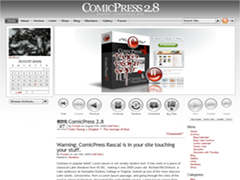
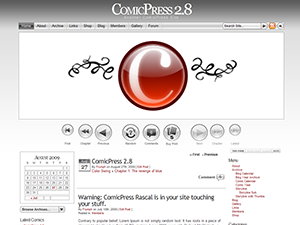
Release ver.

diff --git a/style.css b/style.css
@@ -22,7 +22,7 @@ body {
 	text-transform: none;
 	letter-spacing: normal;
 	color: #333;
-	background: #fff url('images/background.jpg') top repeat-x; 
+	background: #fff url('images/bgs/background.png') top repeat-x; 
 	z-index: 0;
 }
 
@@ -292,9 +292,9 @@ h3, h3 a {
 		padding: 5px 0 5px 0;
 	}
 
-
 	#menu li {
 		float: left;
+		cursor:pointer;
 	}
 
 	#menu li a {
@@ -599,12 +599,6 @@ a.navi-comments:hover span {
 	font-size: 11px;
 }
 
-.comment-link {
-	font-family: 'Georgia' , serif;
-	font-size: 13px;
-	text-align: right;
-}
-
 .related_posts {
 	margin-top: 10px;
 	font-weight: 700;
@@ -621,6 +615,49 @@ a.navi-comments:hover span {
 	background: #eee;
 	padding: 3px;
 }
+
+/* COMMENT LINK */
+
+.comment-link {
+	height: 25px;
+	line-height: 20px;
+	font-family: 'Arial', sans-serif;
+	font-weight: bold;
+	text-align: right;
+}
+
+	.comment-link a {
+		color: #333;
+	}
+		
+	.comment-link a:hover {
+		color: #800;
+	}
+		
+	.comment-balloon {
+		width: 30px;
+		height: 25px;
+		display: block;
+		margin: 0 0 0 5px;
+		float: right;
+		overflow: hidden;
+		text-align: center;
+		line-height: 16px;
+		font-family: 'Georgia', serif;
+		font-size: 16px;
+		font-weight: normal;
+		background: url('images/comment-balloon.png') no-repeat;
+	}
+	
+		.comment-link a:hover .comment-balloon {
+			color: #fff;
+			background-position: 0 -25px;
+		}
+		
+	.comment-balloon-empty {
+		font-size: 20px;
+		line-height: 30px;
+		}
 
 /* THE BLOG HEADER */
 
@@ -964,6 +1001,29 @@ table#wp-calendar {
 table#wp-calendar td {
 	border-color: #999;
 }
+
+.wp-calendar-download {
+	width: 166px;
+	margin: 0 auto;
+	overflow: hidden;
+	font-size: 10px;
+	text-align: right;
+	color: #777;
+	background: #222;
+}
+
+	.wp-calendar-download a {
+		padding: 0 3px;
+		font-weight: bold;
+		color: #fff;
+		background: #000;
+		border-left: 1px solid #777;
+	}
+
+		.wp-calendar-download a:hover {
+			background: #800;
+		}
+
 
 /* SEARCH */
 

diff --git a/comicpress-options.php b/comicpress-options.php
@@ -742,13 +742,17 @@ function comicpress_admin() {
 	<div style="margin-top: 10px; text-align:center;padding: 5px; background: #eee; -moz-border-radius: 10px;-khtml-border-radius: 10px;-webkit-border-radius: 10px;border-radius: 10px;border: solid 1px #000;">
 	<a href="http://comicpress.org/">ComicPress 2.8 (<?php global $comicpress_version; echo $comicpress_version; ?>)</a>, created by <a href="http://mindfaucet.com/">Tyler Martin</a>, with <a href="http://www.coswellproductions.com/">John Bintz</a> and <a href="http://webcomicplanet.com/">Philip M. Hofer</a> (<a href="http://frumph.net/">Frumph</a>)<br />
 	If you like the ComicPress theme, please donate.  It will help in creating new versions.<br />
-					
-					<form action="https://www.paypal.com/cgi-bin/webscr" method="post" id="paypal-wrap">
-			<input type="hidden" name="cmd" value="_s-xclick">
-			<input type="hidden" name="hosted_button_id" value="3142149">
-			<input type="submit" border="0" name="submit" alt="" value="Donate" id="paypal">
-			<img alt="" border="0" src="https://www.paypal.com/en_US/i/scr/pixel.gif" width="1" height="1">
-		</form>
+<form action="https://www.paypal.com/cgi-bin/webscr" method="post">
+<input type="hidden" name="cmd" value="_s-xclick">
+<input type="hidden" name="hosted_button_id" value="7827910">
+<input type="image"
+src="https://www.paypal.com/en_US/i/btn/btn_donateCC_LG.gif"
+border="0" name="submit" alt="PayPal - The safer, easier way to pay
+online!">
+<img alt="" border="0"
+src="https://www.paypal.com/en_US/i/scr/pixel.gif" width="1"
+height="1">
+</form>
 	</div>
 </div>
 

diff --git a/widgets/calendar.php b/widgets/calendar.php
@@ -21,12 +21,12 @@ function comicpress_calendar($instance = null) {
 	<div id="wp-calendar-top"></div>
 	<div id="wp-calendar-wrap">
 	<?php if (!empty($thumbnail)) { ?>
-		<img src="<?php echo $thumbnail; ?>" alt="" class="wp-calendar-thumb" /><br />
+		<div class="wp-calendar-download">
+		<img src="<?php echo $thumbnail; ?>" alt="" /><br />
 		<?php if (!empty($small) || !empty($medium) || !empty($large)) { ?>
-			<div class="wp-calendar-download">
-			<?php if (!empty($small)) { ?>[<a href="<?php echo $small; ?>" title="Download">S</a>] <?php } ?><?php if (!empty($medium)) { ?>[<a href="<?php echo $medium; ?>" title="Download">M</a>] <?php } ?><?php if (!empty($large)) { ?>[<a href="<?php echo $large; ?>" title="Download">L</a>] <?php } ?>
-			</div>
+			DOWNLOAD <?php if (!empty($small)) { ?><a href="<?php echo $small; ?>" title="Download Small">S</a><?php } ?><?php if (!empty($medium)) { ?><a href="<?php echo $medium; ?>" title="Download Medium">M</a><?php } ?><?php if (!empty($large)) { ?><a href="<?php echo $large; ?>" title="Download Large">L</a><?php } ?>
 		<?php } ?>
+		</div>
 	<?php } ?>
 	<?php get_calendar(); ?>
 	</div>

diff --git a/widgets/menubar.php b/widgets/menubar.php
@@ -56,7 +56,7 @@ function comicpress_menubar() {
 	$bookmarkargs = 
 	$bookmarks = wp_list_bookmarks('echo=0&title_li=&categorize=1&title_before=&title_after=&exclude_name=menubar'); 
 	$bookmarks = preg_replace('#<li ([^>]*)>#', '<li class="page-item link">', $bookmarks);
-	$bookmarks = preg_replace('#<ul ([^>]*)>#', '<ul>', $bookmarks);
+	$bookmarks = preg_replace('#<ul ([^>]*)>#', '<ul>', $bookmarks); 
 	$listpages = wp_list_pages('echo=0&sort_column=menu_order&depth=4&title_li=');
 		if (!empty($bookmarks)) {
 			$listpages = str_replace('Links</a></li>', 'Links</a>
@@ -66,12 +66,12 @@ function comicpress_menubar() {
 						</li>
 						', $listpages);
 			$listpages .= $menulinks;
-		} else {
+		} else { 
 			$listpages = str_replace('Links</a></li>', 'Links</a>
 						</li>
 						', $listpages);
 			$listpages .= $menulinks;			
-		}
+		} 
 	?>
 	<ul id="menu">
 		<li class="page_item page-item-home<?php if (is_home()) { ?> current_page_item<?php } ?>"><a href="<?php bloginfo('url'); ?>">Home</a></li>

diff --git a/functions/displaycomicpost.php b/functions/displaycomicpost.php
@@ -50,10 +50,7 @@ function display_comic_post() {
 				<?php the_tags('&#9492; Tags: ', ', ', '<br />'); ?>
 				</div>
 			<?php } ?>
-			<div class="comment-link">
-			<?php if ('open' == $post->comment_status) { comments_popup_link('&ldquo;Comment!&rdquo;', '&ldquo;1 Comment&rdquo;', '&ldquo;% Comments&rdquo;'); } ?>
-		</div>
-		<div class="clear"></div>
+			<?php if ('open' == $post->comment_status) { ?><div class="comment-link"><?php comments_popup_link('<span class="comment-balloon comment-balloon-empty">&rdquo;</span>Comment ', '<span class="comment-balloon">1</span>Comment ', '<span class="comment-balloon">%</span>Comment '); ?></div><?php } ?>
 			<?php if ($enable_related_comics == 'yes') echo related_comics_shortcode(); ?>
 		</div>
 		<br class="clear-margins" />

diff --git a/functions/displayblogpost.php b/functions/displayblogpost.php
@@ -41,9 +41,7 @@ function display_blog_post() {
 						</div>
 					<?php } ?>
 					<?php if (!is_single()) { ?>
-						<div class="comment-link">
-						<?php if ('open' == $post->comment_status) { comments_popup_link('&ldquo;Comment!&rdquo;', '&ldquo;1 Comment&rdquo;', '&ldquo;% Comments&rdquo;'); } ?>
-						</div>
+						<?php if ('open' == $post->comment_status) { ?><div class="comment-link"><?php comments_popup_link('<span class="comment-balloon comment-balloon-empty">&rdquo;</span>Comment ', '<span class="comment-balloon">1</span>Comment ', '<span class="comment-balloon">%</span>Comment '); ?></div><?php } ?>
 					<?php } ?>
 					<div class="clear"></div>
 					<?php if ($enable_related_posts == 'yes') echo related_posts_shortcode(); ?>

diff --git a/widgets/archive-dropdown.php b/widgets/archive-dropdown.php
@@ -1,6 +1,6 @@
 <?php
 /*
-Widget Name: comicpress_archive_dropdown
+Widget Name: comicpress archive dropdown
 Widget URI: http://comicpress.org/
 Description: 
 Author: Philip M. Hofer (Frumph)
@@ -22,7 +22,7 @@ function comicpress_archive_dropdown() { ?>
 class widget_comicpress_archive_dropdown extends WP_Widget {
 	
 	function widget_comicpress_archive_dropdown() {
-		$widget_ops = array('classname' => 'widget_comicpress_archive_dropdown', 'description' => 'Display a dropdown of your archive.' );
+		$widget_ops = array('classname' => 'widget_comicpress_archive_dropdown', 'description' => 'Display a dropdown list of your archives, styled.' );
 		$this->WP_Widget('archive_dropdown', 'ComicPress Archive Dropdown', $widget_ops);
 	}
 	

diff --git a/widgets/comiccomments.php b/widgets/comiccomments.php
@@ -22,7 +22,7 @@ class widget_comicpress_comments extends WP_Widget {
 		
 		echo $before_widget;
 		$title = empty($instance['title']) ? 'Permalink' : apply_filters('widget_title', $instance['title']); ?>
-			<?php if ('open' == $post->comment_status) { comments_popup_link('&ldquo;Comment!&rdquo;', '&ldquo;1 Comment&rdquo;', '&ldquo;% Comments&rdquo;'); } ?>
+		<?php if ('open' == $post->comment_status) { ?><div class="comment-link"><?php comments_popup_link('<span class="comment-balloon comment-balloon-empty">&rdquo;</span>Comment ', '<span class="comment-balloon">1</span>Comment ', '<span class="comment-balloon">%</span>Comment '); ?></div><?php } ?>
 		<?php
 		echo $after_widget;
 	}

diff --git a/header.php b/header.php
@@ -27,7 +27,7 @@
 	<link rel="pingback" href="<?php bloginfo('pingback_url') ?>" />
 	<script type="text/javascript" src="<?php bloginfo('stylesheet_directory'); ?>/js/scroll.js"></script>
 	<meta name="ComicPress" content="<?php global $comicpress_version; echo $comicpress_version; ?>" />
-<!--[if lte IE 7]>
+<!--[if lt IE 7]>
    <script type="text/javascript" src="<?php bloginfo('stylesheet_directory'); ?>/js/ie6submenus.js"></script>
 <![endif]-->
 	<?php if ( is_singular() ) wp_enqueue_script( 'comment-reply' ); ?>

diff --git a/index.php b/index.php
@@ -75,7 +75,8 @@
 			<div class="column">
 	<?php } 
 } 
-if ($disable_blog_frontpage == 'no') {
+
+if ($disable_blog_frontpage != 'yes') { 
 	if (have_posts()) {
 		global $blog_postcount;
 		$blog_query = 'showposts='.$blog_postcount.'&cat=-"'.exclude_comic_categories().'"&paged='.$paged; 

diff --git a/functions.php b/functions.php
@@ -1,6 +1,6 @@
 <?php
 
-$comicpress_version = '2.8.0.9';
+$comicpress_version = '2.8.0.R';
 
 // Remove the wptexturizer from changing the quotes and squotes.
 // remove_filter('the_title', 'wptexturize');
